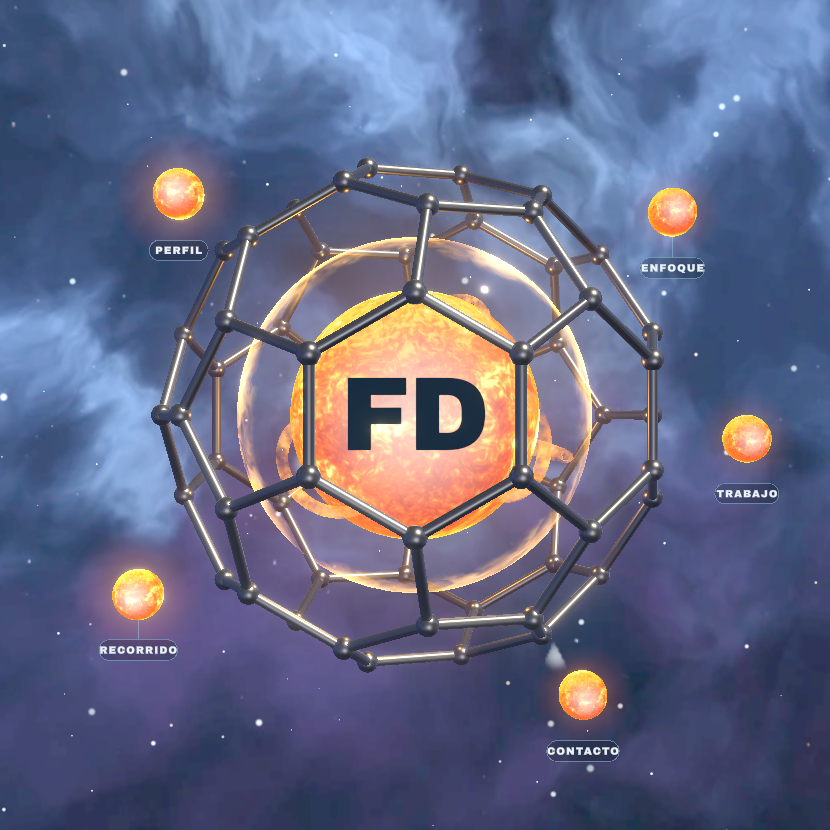
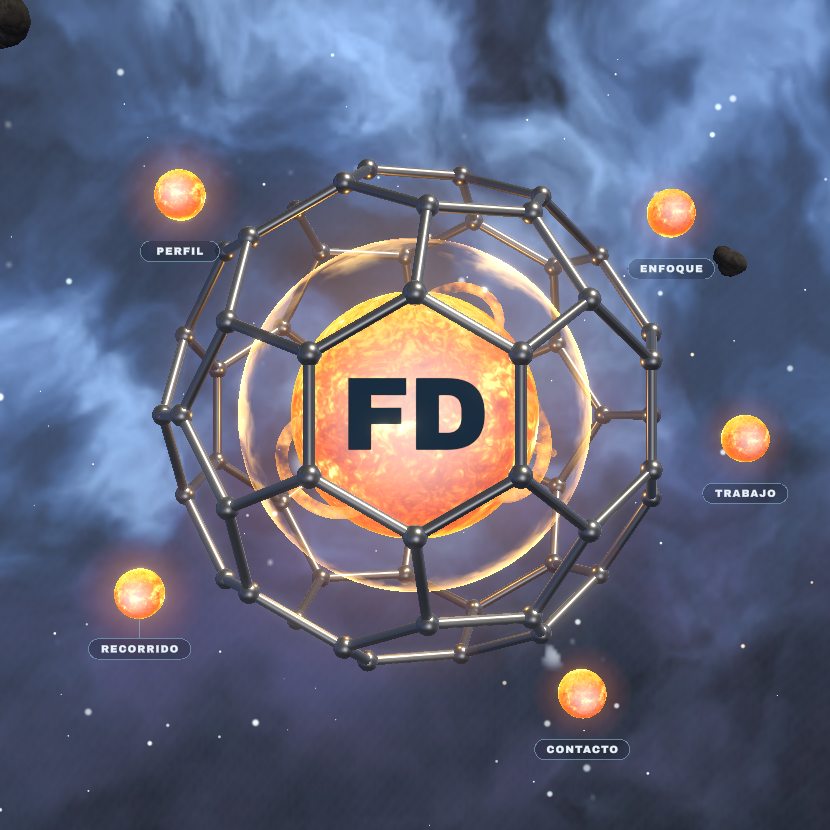
v4.3.1 — Skybox sin artefactos (lossless + sombras desaturadas + Bayer) y chips con aire
- Causa raíz de los bloques: el WebP lossy siempre submuestrea croma 4:2:0
  y en las sombras violetas el color dibuja el degradé → bloques. Fix:
  saturación dependiente de luminancia en el shader (sombras a azul-gris,
  arregla también la 'saturación altísima'), WebP LOSSLESS a 2048 (nubes
  suaves: upscale invisible; glitter moderado) y dither ordenado Bayer 8x8
  (compresible). 1.17 MB. Verificado con crops 2x de la zona señalada.
- Chips: el ancho ahora descuenta las puntas del pill + aire real de
  0.45FS por lado (RECORRIDO ya no toca el borde; crop 2x verificado).
- Póster regenerado.
Verificado: gate 0, touch, anim, smoke, dashcheck, seocheck.

diff --git a/components/three/GraphNodes.tsx b/components/three/GraphNodes.tsx
@@ -170,8 +170,12 @@ export function GraphNodes({
   const chips = useMemo(
     () =>
       nodos.map((n) => {
-        const w = n.label.length * FS * 0.68 + FS * 1.7;
+        // Ancho del texto (glifo ~0.68·FS + tracking 0.12·FS por letra) + las
+        // DOS puntas semicirculares del pill (h en total, zona no usable) +
+        // aire lateral real de 0.45·FS por lado.
+        const textW = n.label.length * FS * (0.68 + 0.12);
         const h = FS * 2.1;
+        const w = textW + h + FS * 0.9;
         return {
           plate: new THREE.ShapeGeometry(pillShape(w, h), 24),
           ring: pillRingGeometry(w, h, FS * 0.09),

diff --git a/DECISIONS.md b/DECISIONS.md
@@ -1064,3 +1064,32 @@ cards de NASA y Sadosky.
   la marca); en rutas de detalle sigue logo + volver.
 - **Título de pestaña**: separador "|" (default y template).
 - **Recorrido**: fuera NASA Space Apps y Premios Sadosky (siguen en la bio).
+
+### v4.3.1 — Skybox: el fix DEFINITIVO de los artefactos + aire en los chips
+
+Felipe volvió a señalar bloques y saturación altísima en las zonas oscuras
+(con razón: el zoom 2x lo confirmó). Causa raíz REAL, encontrada al fin: el
+WebP lossy SIEMPRE submuestrea el croma a 4:2:0, y en las sombras violetas
+la luminancia es plana pero el COLOR dibuja el degradé → el croma a media
+resolución se ve en bloques. Ningún q lo arregla. Solución triple:
+
+1. **Sombras desaturadas EN EL SHADER** (saturación dependiente de
+   luminancia): las zonas oscuras viran a azul-gris profundo. Arregla la
+   estética (la "saturación altísima") Y deja casi sin croma que romper.
+2. **WebP SIN PÉRDIDA** (quality 1.0 en Chromium = lossless): cero
+   submuestreo, cero bloques. Para que pese poco: se sirve a 2048×1024 (las
+   nubes son suaves, el upscale bilineal es invisible; las estrellas
+   nítidas ya las pone la bóveda procedural en vivo) y el glitter horneado
+   se moderó (el ruido infla el lossless).
+3. **Dither ordenado (Bayer 8x8)** en lugar de random: rompe el banding
+   igual pero comprime mucho mejor (random: 1.4 MB → Bayer: 1.17 MB).
+
+Verificación con evidencia: crops con zoom 2x de la zona señalada (vista
+Perfil, cuadrante inferior-izquierdo) antes y después → gradiente limpio,
+sin bloques ni bandas ni violeta quemado. Corroborado también en
+producción tras el deploy.
+
+Chips: la fórmula de ancho no descontaba las puntas semicirculares del pill
+(zona no usable por el texto) → "RECORRIDO" tocaba el borde. Ahora:
+ancho = texto (glifo + tracking) + altura del pill (las dos puntas) + aire
+real de 0.45·FS por lado. Verificado con crop 2x del chip más largo.
